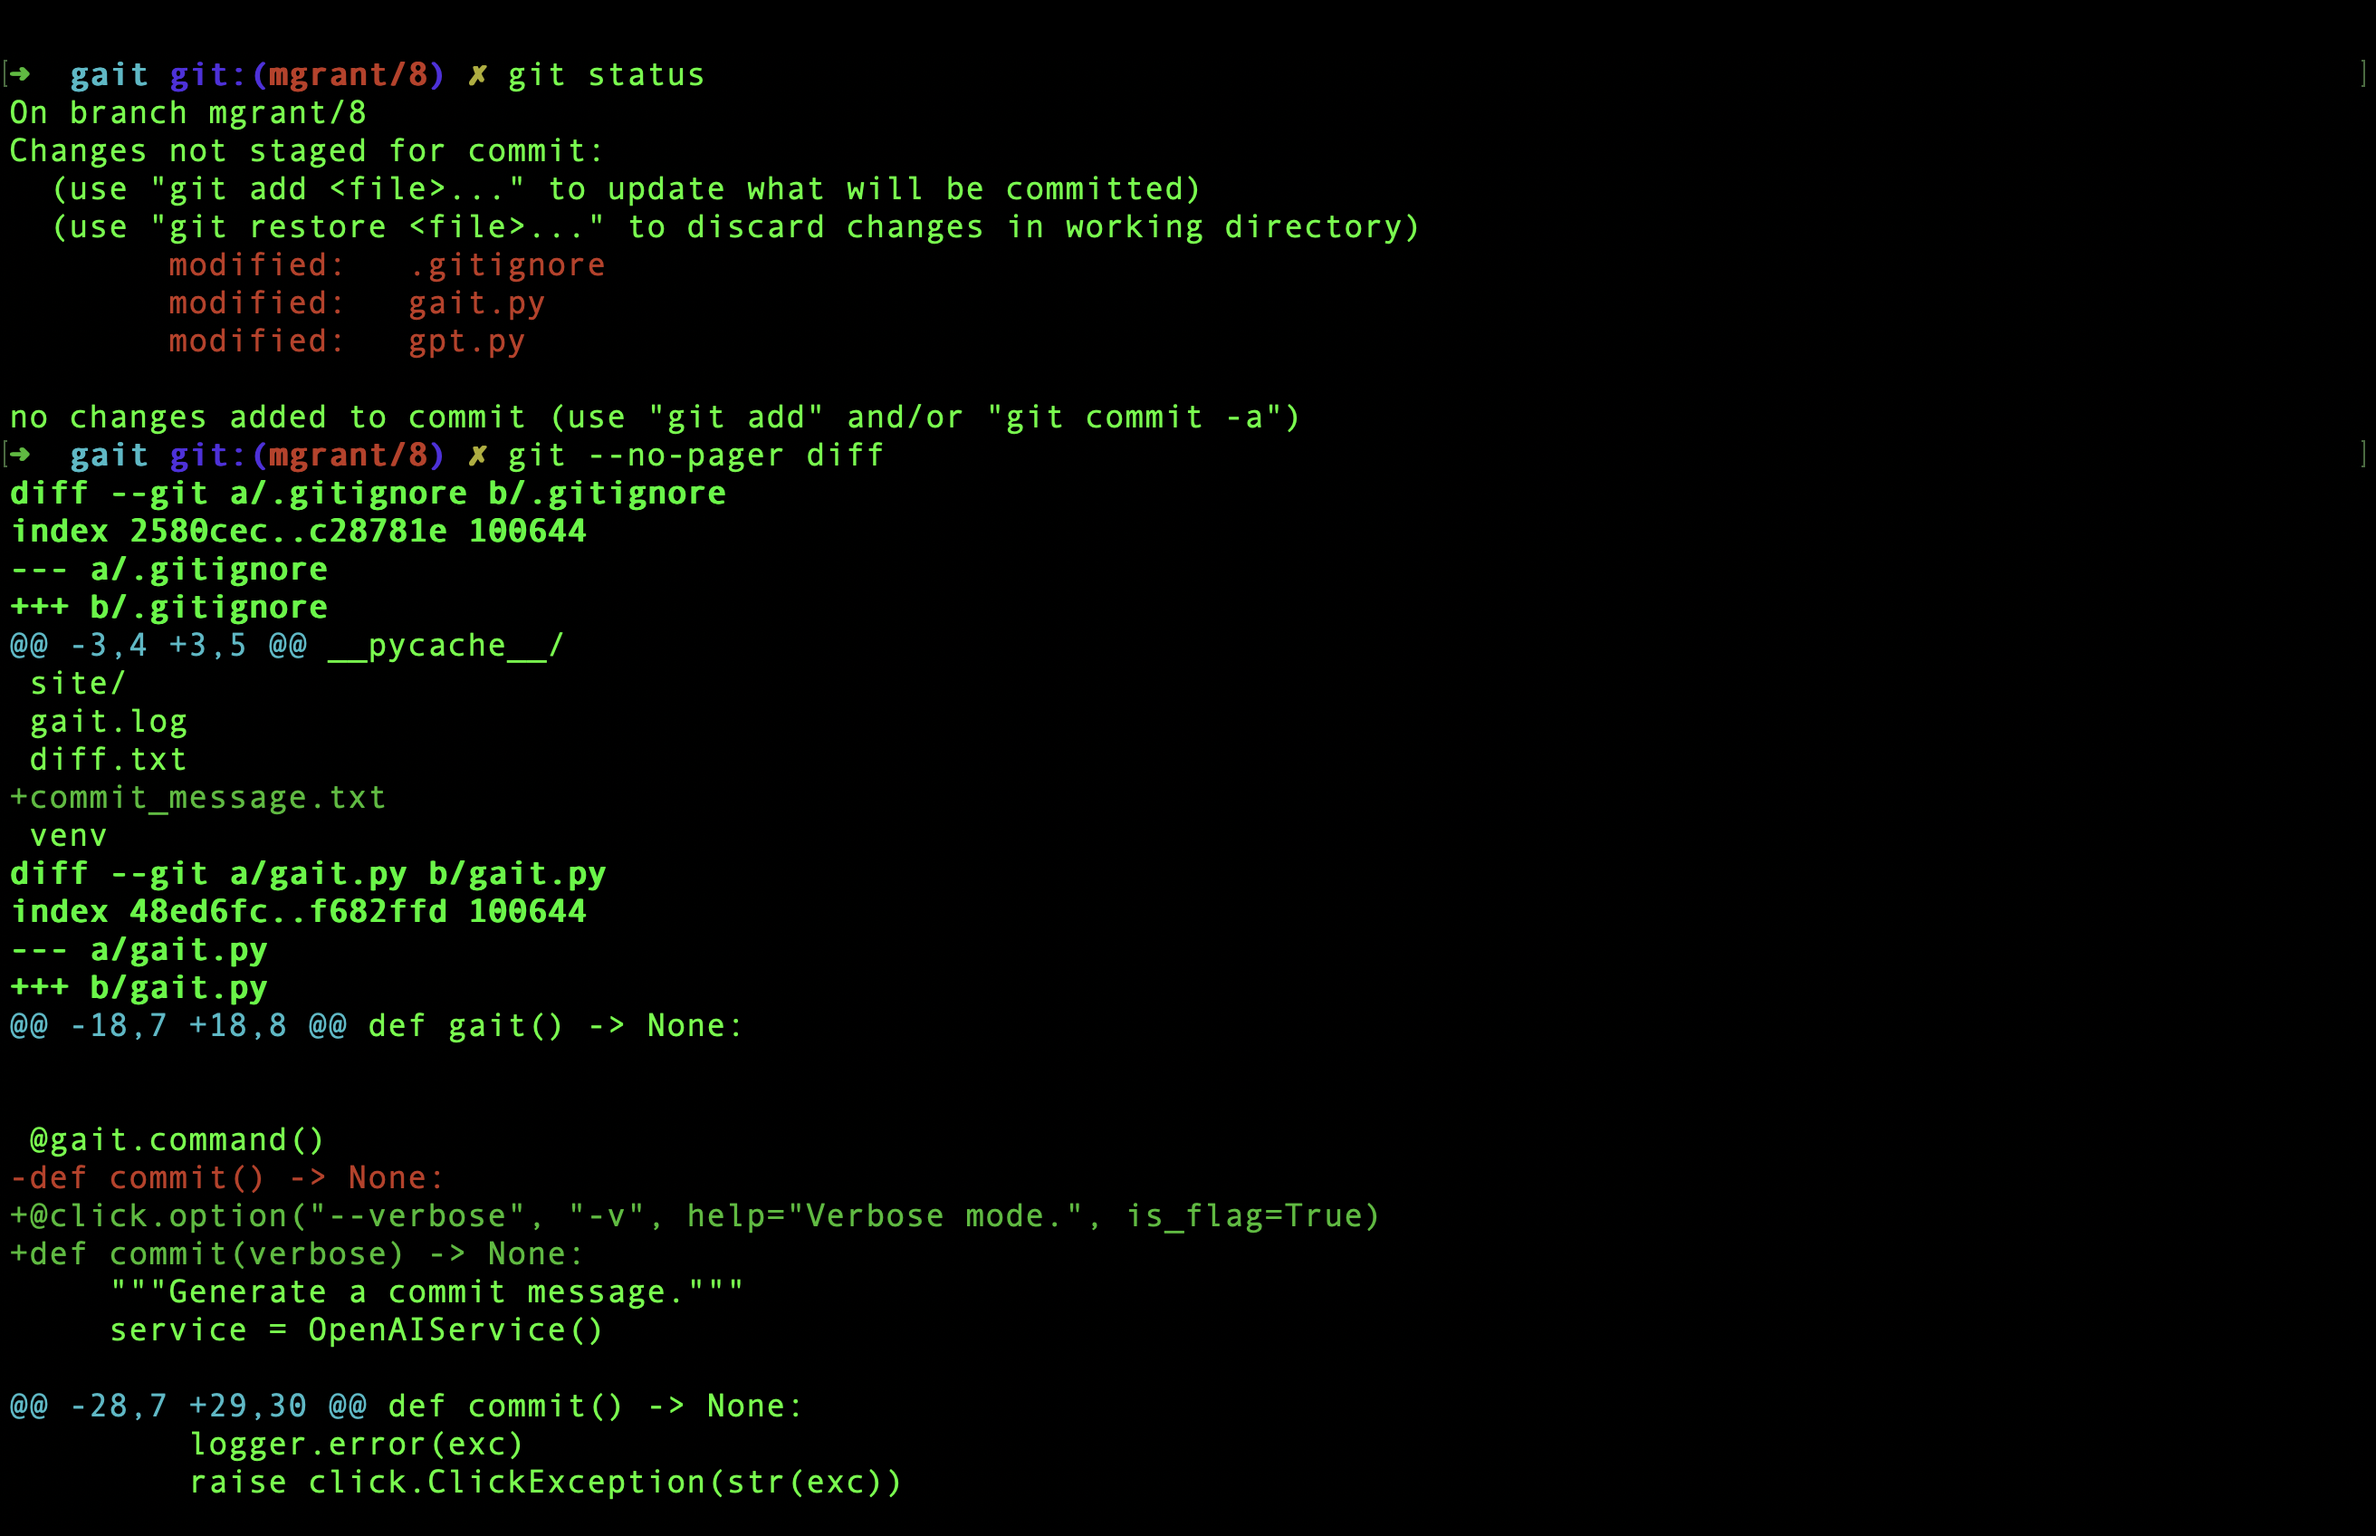
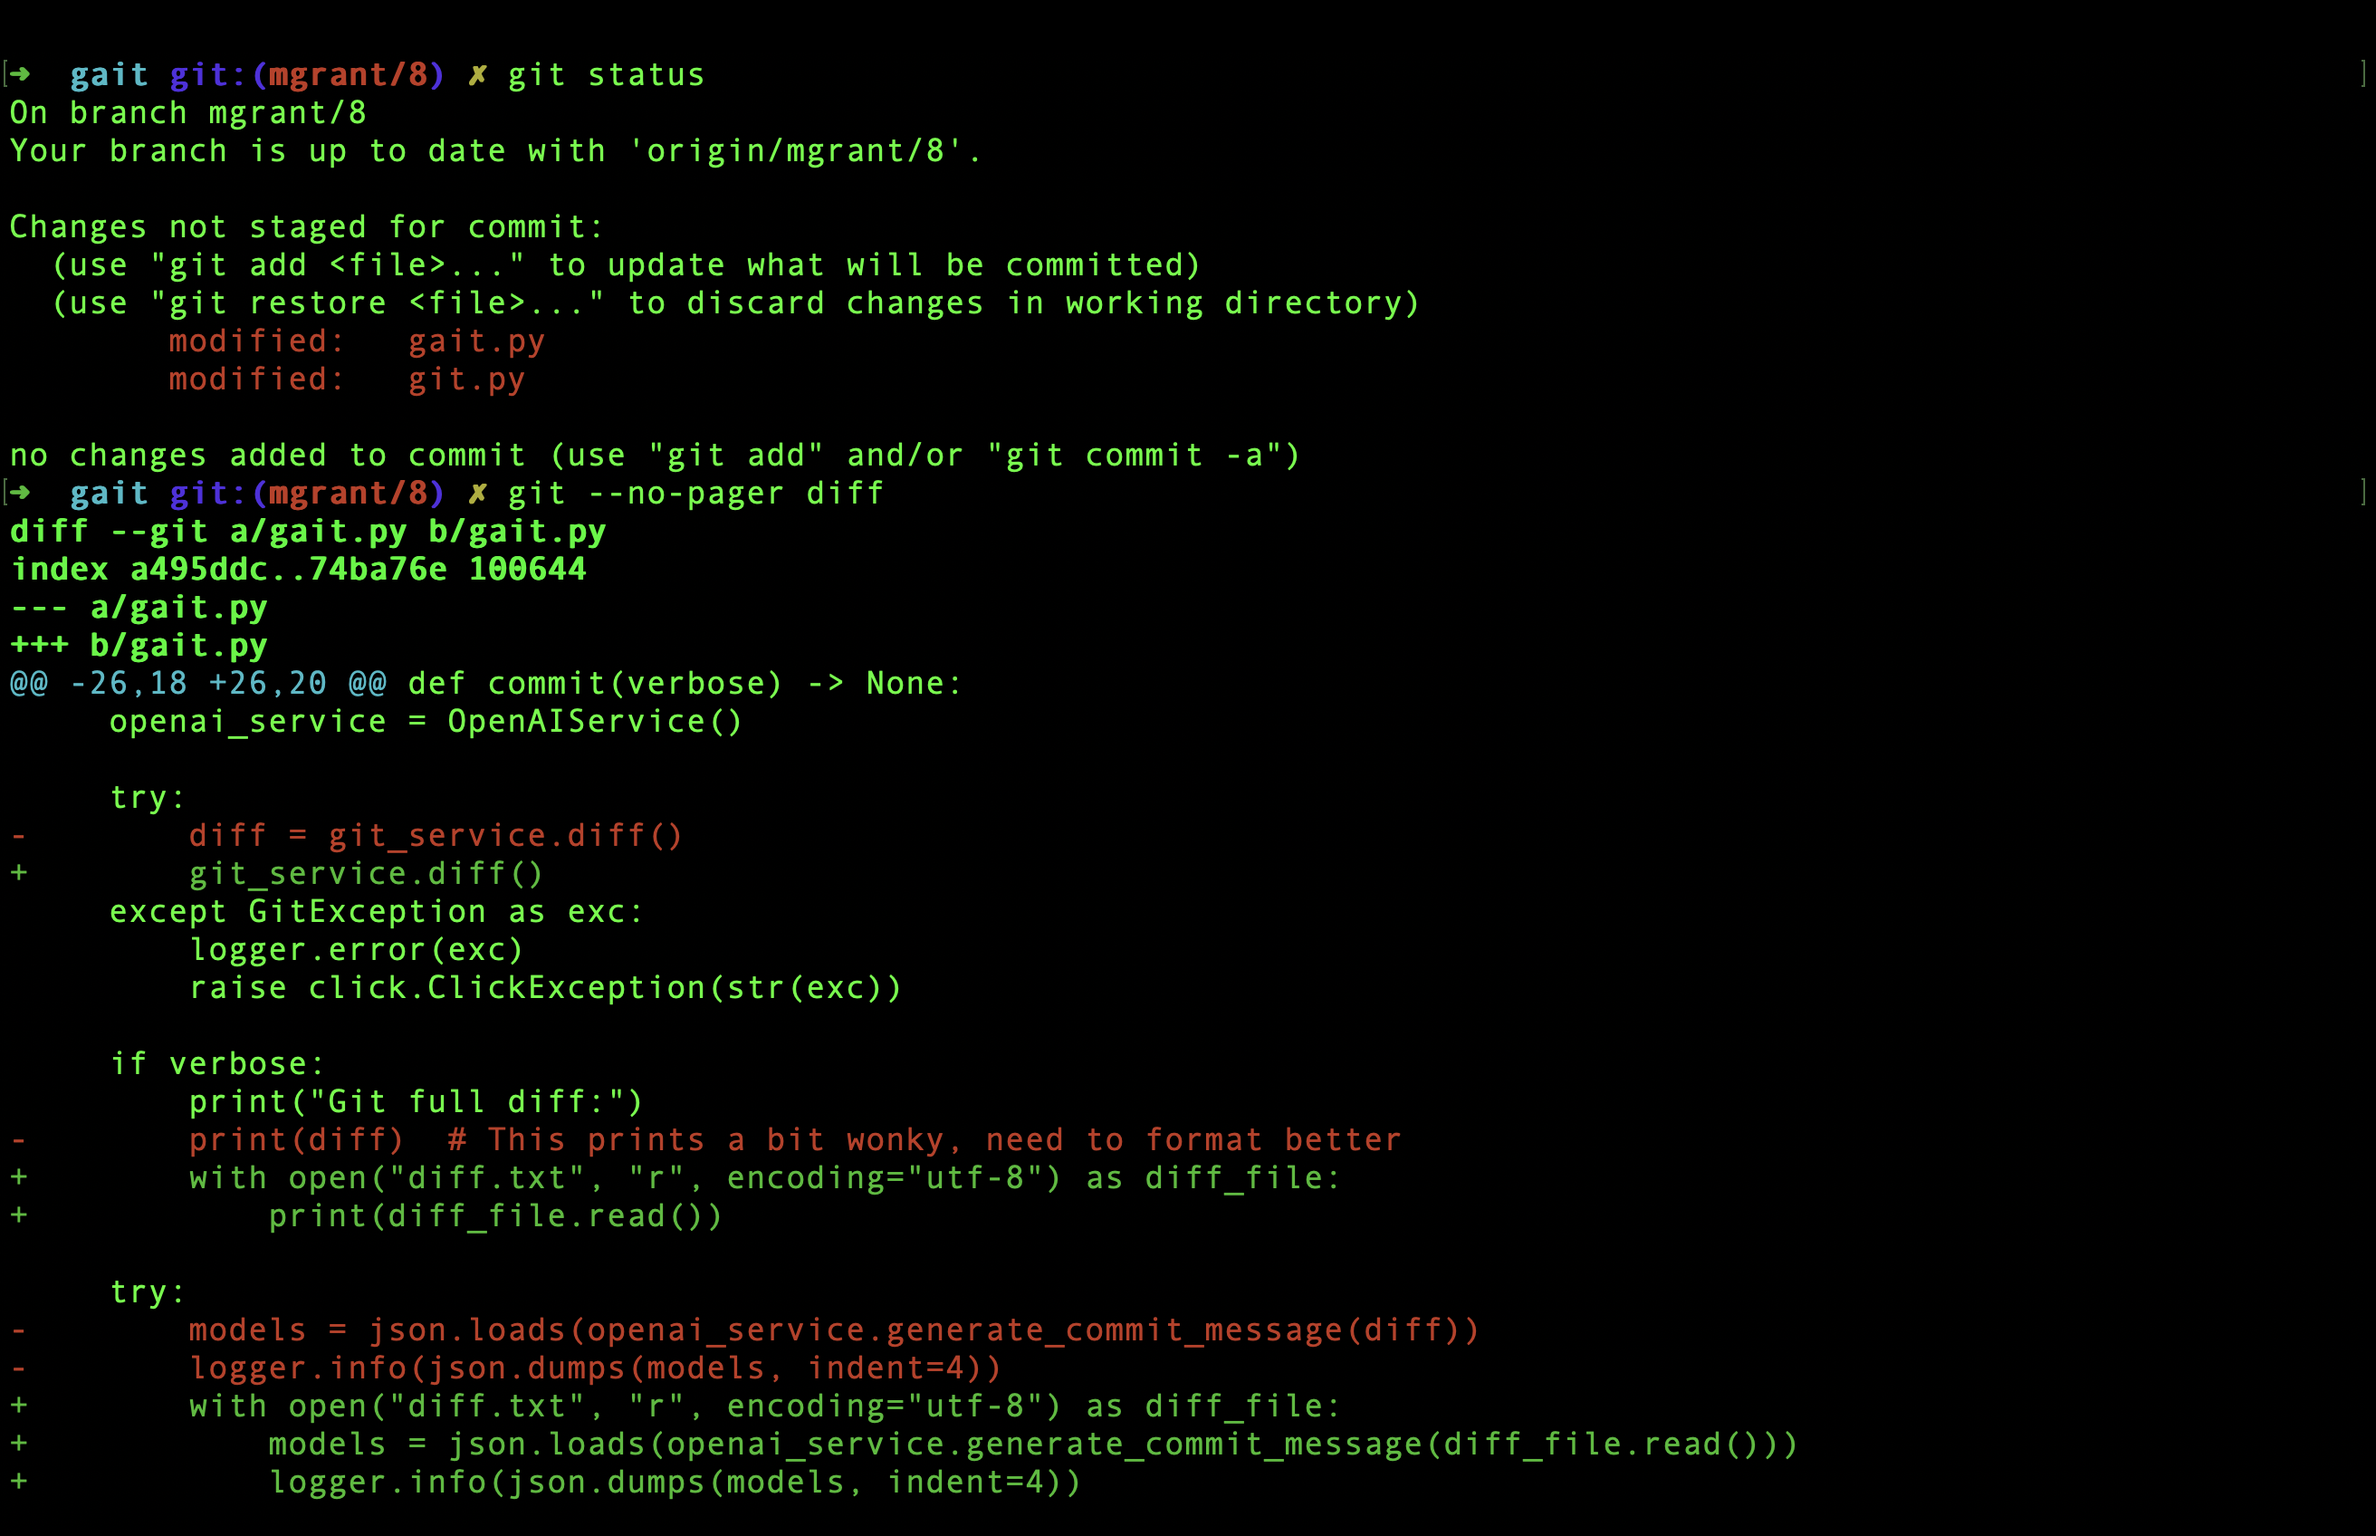
- Fix formatting of diff using a file - Update screenshots for test 5

diff --git a/gait.py b/gait.py
@@ -26,18 +26,20 @@ def commit(verbose) -> None:
     openai_service = OpenAIService()
 
     try:
-        diff = git_service.diff()
+        git_service.diff()
     except GitException as exc:
         logger.error(exc)
         raise click.ClickException(str(exc))
 
     if verbose:
         print("Git full diff:")
-        print(diff)  # This prints a bit wonky, need to format better
+        with open("diff.txt", "r", encoding="utf-8") as diff_file:
+            print(diff_file.read())
 
     try:
-        models = json.loads(openai_service.generate_commit_message(diff))
-        logger.info(json.dumps(models, indent=4))
+        with open("diff.txt", "r", encoding="utf-8") as diff_file:
+            models = json.loads(openai_service.generate_commit_message(diff_file.read()))
+            logger.info(json.dumps(models, indent=4))
     except OpenAIException as exc:
         logger.error(exc)
         raise click.ClickException(str(exc))

diff --git a/git.py b/git.py
@@ -17,13 +17,12 @@ class GitService:
             raise GitException(exc) from exc
 
     @staticmethod
-    def diff() -> str:
+    def diff() -> None:
         """Get diff."""
         cmd = ['git --no-pager diff']
 
         try:
-            result = subprocess.run(cmd, stdout=subprocess.PIPE, shell=True, check=True)
+            with open("diff.txt", "w", encoding="utf-8") as diff_file:
+                subprocess.run(cmd, stdout=diff_file, shell=True, check=True)
         except subprocess.CalledProcessError as exc:
             raise GitException(exc) from exc
-
-        return str(result.stdout)

diff --git a/docs/tests.md b/docs/tests.md
@@ -24,7 +24,11 @@ This page is a dumping ground for any tests that you run and their results.  Ple
 
 ![Test Run 5](img/test_5.png)
 ![Test Run 5.2](img/test_5_2.png)
+
+*Note that formatting of the diff is correct, but consider adding syntax highlighting for clarity.*
+
 ![Test Run 5.3](img/test_5_3.png)
 ![Test Run 5.4](img/test_5_4.png)
 
+*Note that the commit message is correct, but the finish_reason is length even though we are no where close to the token limit.  Need to research this further.*
 *Demo run through of the flow for [#8](https://github.com/mgzwarrior/gait/issues/8)*
